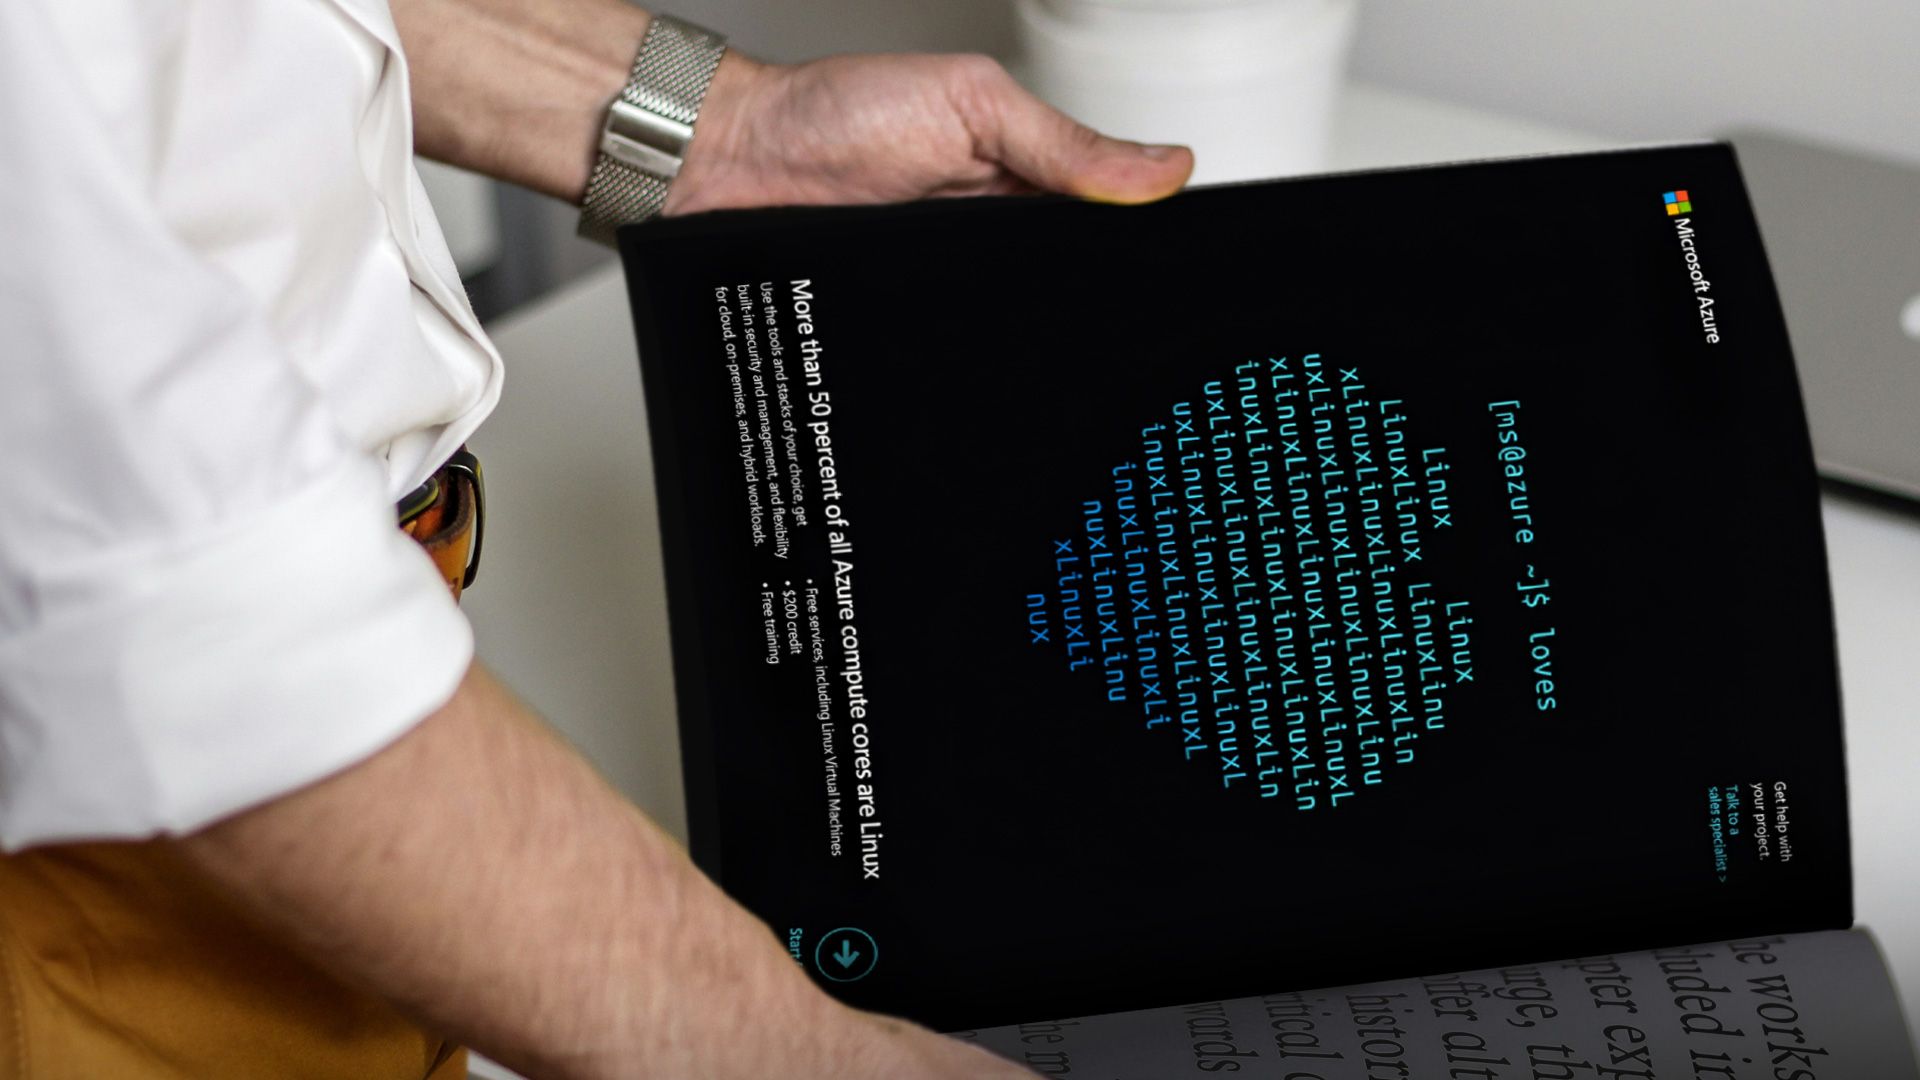
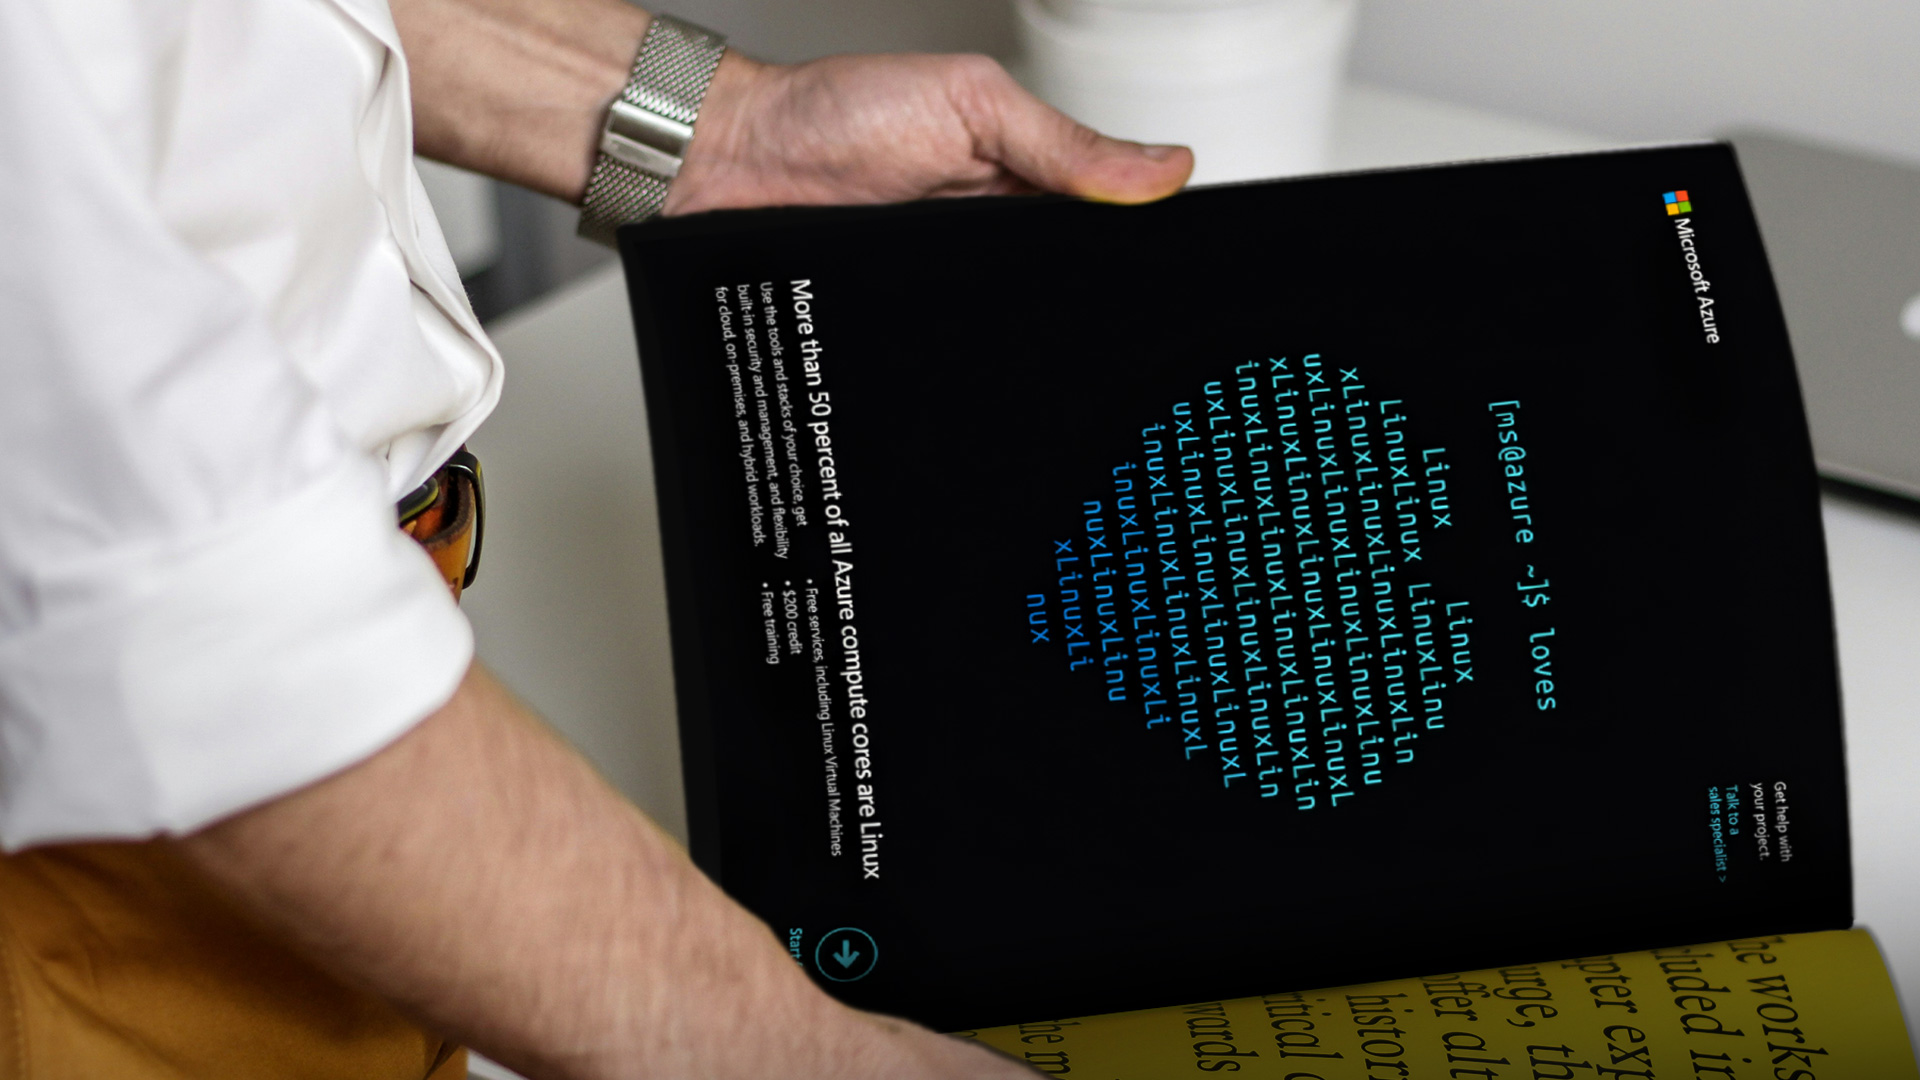
project image and layout

Changed region(s): [[0.5, 0.8556, 1.0, 1.0]]

diff --git a/project_ms_azure_ads.html b/project_ms_azure_ads.html
@@ -82,9 +82,12 @@
             <img src="./assets/AZ_EbookAdInserts.jpg" alt="..." loading="lazy">
           </figure>
 
-
           <figure class="m-item">
             <img src="./assets/MS_Azure_Ad_lifestyle_mockup2.png" alt="..." loading="lazy">
+          </figure>
+
+          <figure class="m-item">
+            <img src="./assets/MS_Azure_Ad_lifestyle_mockup3.jpg" alt="..." loading="lazy">
           </figure>
         </section>
 

diff --git a/css/style.css b/css/style.css
@@ -324,6 +324,13 @@ main {
   /* Masonry layout */
   .project-masonry { column-count: 2; }
 
+  .project-masonry .m-item:last-child {
+  width: 100%;
+  column-span: all;
+  break-inside: avoid;
+  display: block;
+  }
+
   /* Extra LinkedIn spacing on desktop */
   .sidebar nav a.nav-linkedin {
     margin-top: 2em; /* gives visual separation */
